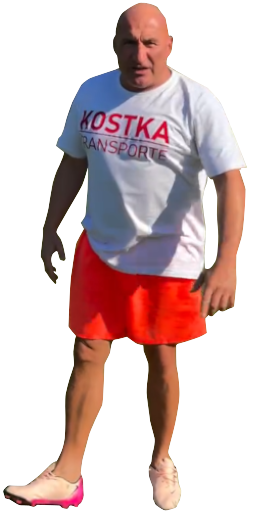
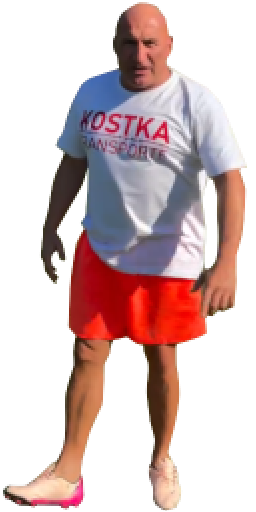
introduce bully character

diff --git a/Scenes/Characters/Bully/Bully.cs b/Scenes/Characters/Bully/Bully.cs
@@ -2,11 +2,11 @@ public partial class Bully : InteractableCharacter
 {
     protected override DialogueLine[] GetHitReactionDialogue()
     {
-        return [new DialogueLine(DialogueSpeaker.Mate, BullyText.Interaction)];
+        return [new DialogueLine(DialogueSpeaker.Bully, BullyText.HitByObject)];
     }
 
     protected override DialogueLine[] GetInteractionDialogue()
     {
-        return [new DialogueLine(DialogueSpeaker.Mate, BullyText.HitByObject)];
+        return [new DialogueLine(DialogueSpeaker.Bully, BullyText.Interaction)];
     }
 }
